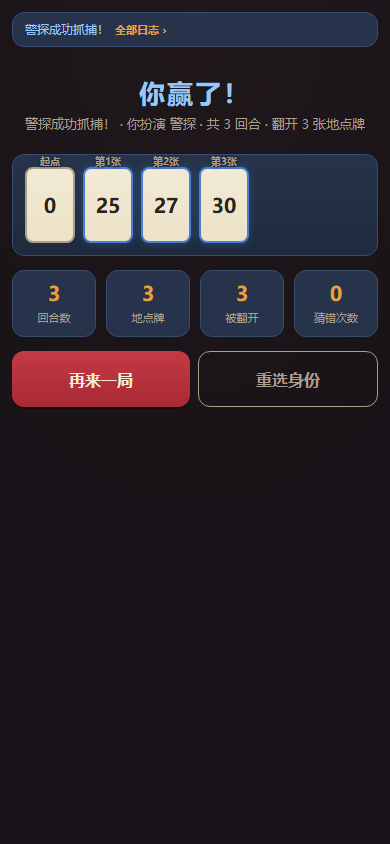
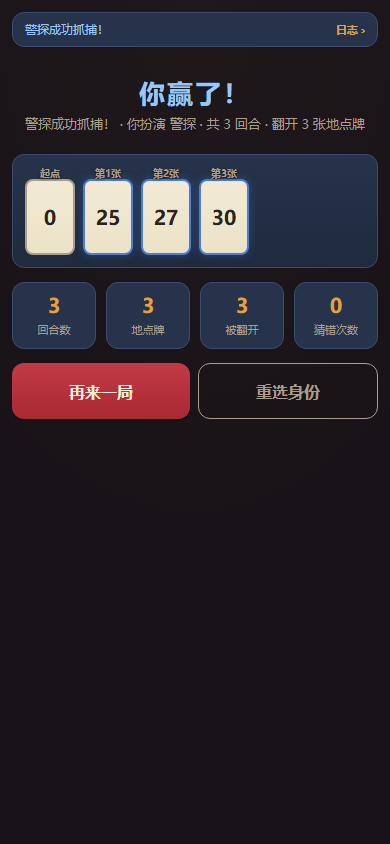
feat(神探缉凶debug)

diff --git a/fugitive/game.js b/fugitive/game.js
@@ -308,6 +308,8 @@ async function manhuntGuess(n, gen){
   const smallestHidden = Math.min(...hidden.map(r=>r.num));
   // 搜捕必须从小到大依次猜；猜测数字不等于当前最小暗牌 → 跳过/猜错即败
   if(n !== smallestHidden){
+    await guessBubbles([n], false, gen); // 搜捕失败同样先气泡对话
+    if(stale(gen)) return;
     log('搜捕：须按顺序猜最小暗牌 <b>' + smallestHidden + '</b>（你猜了 ' + n + '），大盗逃脱！', 'lg-fug');
     console.log('[manhunt] guess', n, '→ ORDER FAIL (smallest hidden is', smallestHidden + ')');
     ui.lock = false; ui.aiBusy = false;
@@ -507,9 +509,11 @@ function marshalInference(){
   const known = aiKnownNums();
   const cands = [];
   let prevSet = new Set([0]); // 起点 0
+  let lastPublic = 0;
   for(let i=0;i<route.length;i++){
     if(!route[i].hidden){
       prevSet = new Set([route[i].num]);
+      lastPublic = route[i].num;
       cands.push(null);
       continue;
     }
@@ -521,9 +525,9 @@ function marshalInference(){
       }
     }
     if(cur.size === 0){
-      // 兜底：约束推导断链时，候选 = 全部未排除数字
+      // 兜底：约束推导断链时，候选 = 最后公开牌之后的未排除数字（路线严格递增，暗牌必 > 最后公开牌）
       cur = new Set();
-      for(let n=1;n<=41;n++){ if(!known.has(n)) cur.add(n); }
+      for(let n=lastPublic+1;n<=41;n++){ if(!known.has(n)) cur.add(n); }
     }
     cands.push(cur);
     prevSet = cur;
@@ -562,10 +566,15 @@ function aiMarChooseGuess(){
 }
 async function aiManhunt(gen){
   if(state.phase!=='manhunt'){ ui.aiBusy=false; render(); return; }
-  const hidden = state.fug.route.filter(r=>r.hidden);
-  // 搜捕必须从小到大依次猜
-  const guess = Math.min(...hidden.map(r=>r.num));
-  console.log('[manhunt-ai] guess =', guess, '(smallest hidden)');
+  // 搜捕必须从小到大依次猜：用推断推导第一个暗置位置（= 当前最小暗牌）的候选，猜最可能值
+  const cands = marshalInference();
+  let guess = 1;
+  for(const c of cands){
+    if(!c) continue; // 已翻开的（cands 为 null）
+    guess = [...c][0]; // Set 升序 → 最小候选；唯一候选即准确推断
+    break;
+  }
+  console.log('[manhunt-ai] guess =', guess, '(inferred smallest hidden)');
   await manhuntGuess(guess, gen);
 }
 
@@ -630,7 +639,7 @@ function logLineHTML(){
   const last = state.log[state.log.length-1];
   return '<div id="log" onclick="openLogDrawer()"><span class="ld-msg">' +
     (last ? '<span class="' + (last.cls||'') + '">' + last.msg + '</span>' : '暂无操作') +
-    '</span><span class="log-more">全部日志 ›</span></div>';
+    '</span><span class="log-more">日志 ›</span></div>';
 }
 function openLogDrawer(){
   const items = state.log.slice().reverse().map(l =>
@@ -684,6 +693,13 @@ function renderGame(){
     handArea = renderMarArea();
     actions = '';
   }
+  let body;
+  if(humanIsFug && state.needDraw){
+    // 摸牌阶段：抽牌 UI 在整个手牌区上方，状态行在最后
+    body = actions + handArea + renderFugStatus();
+  } else {
+    body = handArea + (humanIsFug ? renderFugStatus() + actions : '');
+  }
   return '' +
     '<div id="topbar">' +
       '<div class="tb-row">' +
@@ -703,11 +719,11 @@ function renderGame(){
     logLineHTML() +
     '<div class="hint">' + turnLabel() + '</div>' +
     '<div id="track">' + trackHTML(humanIsFug) + '</div>' +
-    handArea + actions;
+    body;
 }
 
 /* ===== 大盗视角 ===== */
-function renderFugHand(){
+function renderFugStatus(){
   const last = lastRouteNum();
   const m = ui.selMain;
   const covers = ui.selCover;
@@ -719,6 +735,9 @@ function renderFugHand(){
   else if(diff < 1){ status = '主牌 ' + m + '：必须比 ' + last + ' 更大'; }
   else if(diff <= 3){ status = '主牌 ' + m + '：差 ' + diff + '，无需掩护'; }
   else { status = '主牌 ' + m + '：差 ' + diff + '，掩护标记 ' + marksTotal + ' → 上限 ' + maxAllowed + (diff<=maxAllowed?' ✓':'（不够！）'); }
+  return '<div class="hint">' + status + '</div>';
+}
+function renderFugHand(){
   const cards = state.fug.hand.map(n => {
     const selMain = ui.selMain===n ? ' sel-main' : '';
     const selCover = ui.selCover.includes(n) ? ' sel-cover' : '';
@@ -727,8 +746,7 @@ function renderFugHand(){
   }).join('');
   return '' +
     '<div class="section-title">你的手牌 <span style="font-size:11px">掩护标记：奇 ● / 偶 ●●</span></div>' +
-    '<div id="hand">' + cards + '</div>' +
-    '<div class="hint">' + status + '</div>';
+    '<div id="hand">' + cards + '</div>';
 }
 function renderFugActions(){
   if(state.turn !== 'fugitive' || ui.lock) return '';
@@ -752,7 +770,11 @@ function renderFugActions(){
   return html;
 }
 function toggleFugCard(n){
-  if(ui.lock || state.turn!=='fugitive' || state.phase!=='playing' || state.needDraw) return;
+  if(ui.lock || state.turn!=='fugitive' || state.phase!=='playing') return;
+  if(state.needDraw){
+    if(anyPileLeft()){ toast('先进行摸牌'); return; }
+    state.needDraw = false; save(); render(); // 牌库全空 → 自愈清除，直接可选牌
+  }
   if(ui.selMain === null){
     ui.selMain = n;
   } else if(ui.selMain === n){
@@ -924,9 +946,11 @@ function renderOver(){
       (state.fug.route.length ? '<span class="t-arrow">›</span>' : '') +
       state.fug.route.map((r,i)=>{
       const cls = r.hidden ? 't-hidden' : 't-open';
-      const body = r.hidden ? '<span class="q">?</span>' : ('<b>' + r.num + '</b>' + (r.cover.length?'<span class="cov">掩 ' + r.cover.join(',') + '</span>':''));
-      const chk = !r.hidden && r.cover.length ? ' chk' : '';
-      // 结算页：未猜到的暗牌可点击复盘（？→弹窗显示确切数字）
+      const body = r.hidden
+        ? ('<span class="q">?</span>' + (r.cover.length ? '<span class="cov">掩护×' + r.cover.length + '</span>' : ''))
+        : ('<b>' + r.num + '</b>' + (r.cover.length?'<span class="cov">掩 ' + r.cover.join(',') + '</span>':''));
+      const chk = r.cover.length ? ' chk' : '';
+      // 结算页：未猜到的暗牌可点击复盘（？→弹窗显示确切数字与掩护牌）
       const clickable = chk || r.hidden;
       return '<div class="t-card ' + cls + chk + '"' + (clickable ? ' onclick="viewRouteCard(' + i + ')"' : '') + '><div class="idx">第' + (i+1) + '张</div>' + body + '</div>';
     }).join('<span class="t-arrow">›</span>') + '</div>' +

diff --git a/fugitive/style.css b/fugitive/style.css
@@ -66,7 +66,7 @@ body { font-family:-apple-system,system-ui,"PingFang SC","Microsoft YaHei",sans-
 .hint { font-size:13px; color:var(--text-dim); margin:4px 0 8px; }
 
 /* ===== 出牌区 ===== */
-#track { display:flex; flex-wrap:wrap; gap:20px 8px; align-items:flex-start; padding:12px; background:linear-gradient(180deg, var(--surface), #1f2a3e); border:1px solid #3a4d70; border-radius:var(--radius); min-height:110px; margin-bottom:12px; }
+#track { display:flex; flex-wrap:wrap; gap:20px 8px; align-items:flex-start; padding:24px 12px 12px; background:linear-gradient(180deg, var(--surface), #1f2a3e); border:1px solid #3a4d70; border-radius:var(--radius); min-height:110px; margin-bottom:12px; }
 .t-card { position:relative; width:calc((100% - 40px)/6); height:76px; border-radius:8px; display:flex; flex-direction:column; align-items:center; justify-content:center; font-weight:800; font-size:20px; flex-shrink:0; }
 .t-card .idx { position:absolute; top:-14px; left:0; right:0; text-align:center; font-size:10px; color:var(--text-dim); text-shadow:0 1px 3px rgba(0,0,0,.6); }
 .t-card .sprint { font-size:9px; color:var(--text-dim); font-weight:400; margin-top:2px; }
@@ -82,7 +82,7 @@ body { font-family:-apple-system,system-ui,"PingFang SC","Microsoft YaHei",sans-
 .section-title { font-size:13px; color:var(--text-dim); margin:4px 0 8px; display:flex; align-items:center; gap:8px; }
 #hand { display:flex; flex-wrap:wrap; gap:8px; padding:12px; background:linear-gradient(180deg, var(--surface), #1f2a3e); border:1px solid #3a4d70; border-radius:var(--radius); min-height:96px; margin-bottom:12px; }
 .h-card { width:54px; height:78px; border-radius:8px; background:linear-gradient(180deg, #f2ead4, var(--paper)); border:2px solid #b8a986; color:var(--ink); display:flex; flex-direction:column; align-items:center; justify-content:center; font-size:22px; font-weight:800; cursor:pointer; position:relative; flex-shrink:0; box-shadow:0 2px 4px rgba(0,0,0,.4); }
-.h-card .mk { font-size:9px; color:var(--gold); letter-spacing:-2px; margin-top:1px; }
+.h-card .mk { font-size:9px; color:var(--gold); /*letter-spacing:-2px;*/ margin-top:1px; }
 .h-card.sel-main { border-color:var(--accent); background:linear-gradient(180deg, #e8c9b0, #e0b89c); transform:translateY(-6px); }
 .h-card.sel-cover { border-color:var(--gold); background:linear-gradient(180deg, #efe3c2, #e2cf9f); }
 .h-card.sel-cover::after { content:'掩'; position:absolute; top:-8px; right:-6px; background:var(--gold); color:#2b241c; font-size:10px; border-radius:6px; padding:1px 5px; font-weight:800; }
@@ -105,7 +105,7 @@ body { font-family:-apple-system,system-ui,"PingFang SC","Microsoft YaHei",sans-
 /* ===== 日志（单行置顶 + 抽屉） ===== */
 #log { background:var(--surface); border:1px solid #3a4d70; border-radius:var(--radius); padding:9px 12px; margin-bottom:10px; font-size:12px; color:var(--text-dim); cursor:pointer; display:flex; align-items:center; gap:6px; }
 #log .ld-msg { overflow:hidden; text-overflow:ellipsis; white-space:nowrap; }
-#log .log-more { flex-shrink:0; color:var(--gold); font-size:11px; font-weight:700; }
+#log .log-more { flex-shrink:0; margin-left:auto; color:var(--gold); font-size:11px; font-weight:700; }
 #log .lg-hit { color:#7fd68f; }
 #log .lg-miss { color:#ff8a80; }
 #log .lg-fug { color:#ffb9a8; }
@@ -163,7 +163,7 @@ body { font-family:-apple-system,system-ui,"PingFang SC","Microsoft YaHei",sans-
 .win-fug .big { color:var(--gold); }
 .win-mar .big { color:#9cc6f5; }
 .win-banner .sub { color:var(--text-dim); font-size:13px; margin-top:6px; }
-#final-track { display:flex; flex-wrap:wrap; gap:20px 8px; padding:12px; background:linear-gradient(180deg, var(--surface), #1f2a3e); border:1px solid #3a4d70; border-radius:var(--radius); margin:14px 0; align-items:center; }
+#final-track { display:flex; flex-wrap:wrap; gap:20px 8px; padding:24px 12px 12px; background:linear-gradient(180deg, var(--surface), #1f2a3e); border:1px solid #3a4d70; border-radius:var(--radius); margin:14px 0; align-items:center; }
 #final-track .t-arrow { display:none; }
 #final-track .t-card.chk { cursor:pointer; }
 #final-track .t-card.chk .cov { display:block; max-width:100%; overflow:hidden; text-overflow:ellipsis; white-space:nowrap; }

diff --git a/fugitive/SPEC.md b/fugitive/SPEC.md
@@ -50,9 +50,9 @@
 
 ### 搜捕（打出 42 时结算）
 - 大盗打出 42 号牌 → 42 **直接面朝上**打出
-- 若此时已翻开的地点牌（**不含掩护牌**）中数字**没有大于 30** → 警探进入**搜捕**阶段：警探**必须从小到大依次单猜**仍面朝下的地点牌；猜非最小暗牌视为跳过，立即失败。只有在**所有**面朝下的地点牌都猜对时警探获胜，**猜错即大盗胜**（手牌无消耗，不存在手牌耗尽）
+- 若此时已翻开的地点牌（**不含掩护牌**）中数字**没有大于 30** → 警探进入**搜捕**阶段：警探**必须从小到大依次单猜**仍面朝下的地点牌；猜非最小暗牌视为跳过，立即失败。只有在**所有**面朝下的地点牌都猜对时警探获胜，**猜错即大盗胜**（手牌无消耗，不存在手牌耗尽）；**猜错同样先弹气泡对话（警探「我猜地点有 X」→ 大盗「你猜错了」）再结算大盗胜**
 - 搜捕提示语：告知警探「必须从小到大依次猜」
-- 结算页：未被猜到的地点牌以「？」展示，点击可复盘查看真实数字
+- 结算页：未被猜到的地点牌以「？」展示（**有掩护的暗置牌同时显示「掩护×N」徽标**，与对局中一致；掩护牌面朝下只露数量，点击可复盘查看真实数字与掩护牌具体数字）
 
 ### 胜负
 - 大盗胜：打出 42 且不触发搜捕，或搜捕中警探猜错
@@ -126,7 +126,8 @@ state = {
 - **出牌区：单独一行，每行 6 张，超过 6 张换行**；0 正面朝上；暗置牌显示「第 N 张 ? 掩护×K」（K 对警探可见）；翻开牌显示数字 + 掩护牌数字
 - **猜测气泡对话**（警探猜测时）：顶部弹出警探气泡「我猜地点有 X」→ 600ms 后大盗气泡回应「你猜对了！/你猜错了」（两气泡叠加显示约 2s）；**气泡左右位置以玩家视角：本人气泡靠右（右下小尾巴）、对方气泡靠左（左下小尾巴），颜色仍按角色区分（警探蓝 / 大盗红）**；猜中后桌面牌先 90° 翻出再以动画翻入揭示
 - 大盗视角：
-  - 手牌区：每张牌显示数字 + 掩护标记（奇数 1 点 ● / 偶数 2 点 ●●）；点击选主牌 → 再点选掩护牌（多选），显示累计标记数与当前可打上限 → 放置
+  - 手牌区：每张牌显示数字 + 掩护标记（奇数 1 点 ● / 偶数 2 点 ●●）；点击选主牌 → 再点选掩护牌（多选），显示累计标记数与当前可打上限 → 放置；**摸牌阶段点手牌同警探网格：需先摸牌时弹「先进行摸牌」toast（牌库全空则自动清除并放行）**
+  - **摸牌阶段布局**：需要摸牌时，「抽 1 张牌，选择一堆」提示 + A/B/C 牌堆按钮渲染在**整个手牌区上方**（顺序：出牌区 → 抽牌 UI → 你的手牌 → 未选主牌状态行）；出牌阶段顺序为手牌区 → 状态行 → 放置按钮
   - **暗置牌可检查**：出牌区自己的暗置牌显示「掩护×K · 点击检查」，点击弹抽屉显示该牌数字与掩护牌数字（警探视角不可检查）
   - **已翻开牌可查看**：出牌区已翻开且带掩护牌的地点牌可点击，弹抽屉显示该牌数字与全部掩护牌（双方可见）；结算页同规则（含暗牌复盘）
   - 首回合放完 1 张后：显示「结束回合」按钮（可选放 1~2 张）
@@ -154,13 +155,13 @@ state = {
 ### AI 警探（玩家当大盗）
 - 已知排除集 = 已公开数字 ∪ 警探手牌（猜过未中的不排除——大盗日后可能打出）
 - **AI 内部排除集**：在已知排除集基础上，再排除「AI 猜过未中」的数字（`aiMarMissed` 内存记忆，每局重置）——防止候选恒为 {1,2,3} 时每回合死循环猜同一数字；对玩家 UI 不置灰、玩家仍可再猜
-- 对每个暗置位置枚举候选：满足递增 + 相邻差 ≤3 约束（**故意忽略掩护放宽**，视为天然弱点），且不在 AI 内部排除集内；公开位置用实际数字作前驱
+- 对每个暗置位置枚举候选：满足递增 + 相邻差 ≤3 约束（**故意忽略掩护放宽**，视为天然弱点），且不在 AI 内部排除集内；公开位置用实际数字作前驱；**断链兜底范围约束为「最后公开牌 +1 ~ 41」**（路线严格递增，候选绝不含 ≤ 最后公开牌的数字——避免断链时盲猜 1）
 - 决策（每回合必猜，单猜最优——猜错无代价）：
   - 存在唯一候选位置 → 猜该数字（85%）或随机一个唯一候选（15%）
   - 无唯一候选 → 猜出现在最多候选集中的数字；平局随机
   - 候选全空 → 随机猜一个未排除数字（兜底）；全部数字已猜过 → 从已猜未中随机盲选
 - 抽牌选堆（威胁优先）：统计所有暗置位置的候选数字在各堆（A/B/C）的出现次数，**摸候选最密集的堆**（摸走 = 大盗打不出，压缩路线）；平局按 C → B → A；所有堆都无候选（如首张暗牌候选 1~3 不在任何堆）→ 从大到小 C → B → A
-- 搜捕：同样用上述决策单猜，猜错即败
+- 搜捕：**必须从小到大依次猜**——用推断推导第一个暗置位置（= 当前最小暗牌）的候选集，猜其中最小候选（唯一候选即准确推断），猜错即败；**不读取暗置牌真实数字**（公平，与玩家同信息）
 
 ### AI 大盗（玩家当警探）
 - 普通移动：差 ∈ [1,3] 的主牌，选中间值附近（避免模式化）
